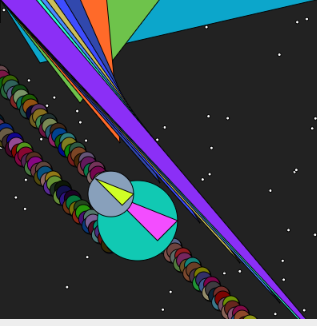
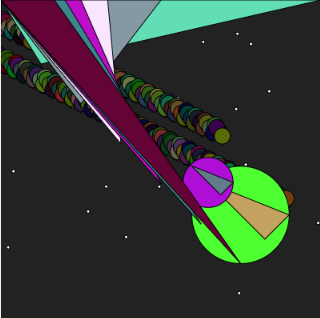
Mute colors and pull them to the left a bit.

diff --git a/art/live/sketch1.js b/art/live/sketch1.js
@@ -21,7 +21,7 @@ function freshcolor() {
 }
 
 function mutecolor() {
-  let c = color(random(0,5)*30,random(0,5)*30, random(0,5)*30);
+  let c = color(random(0,3)*40,random(0,3)*40, random(0,3)*30);
   fill(c);
 }
 
@@ -87,7 +87,7 @@ function globe(gx, gy, size) {
 
 }
 
-function helix(hx, hy) {
+function braid(hx, hy) {
   var size = 100 * random(3, 6);
 
   for(i=0; i<size; i++){
@@ -105,10 +105,10 @@ function setup() {
   background(maxim,maxim);
   starfield();
 
-  var hx = -200 + 100 * random(0, 4);
-  helix(hx, 0);
+  var hx = -300 + 100 * random(0, 4);
+  braid(hx, 0);
   var dx = 50 * random(1, 3);
-  helix(hx+dx, 0);
+  braid(hx+dx, 0);
 
   oneglobe();
   topspike();
